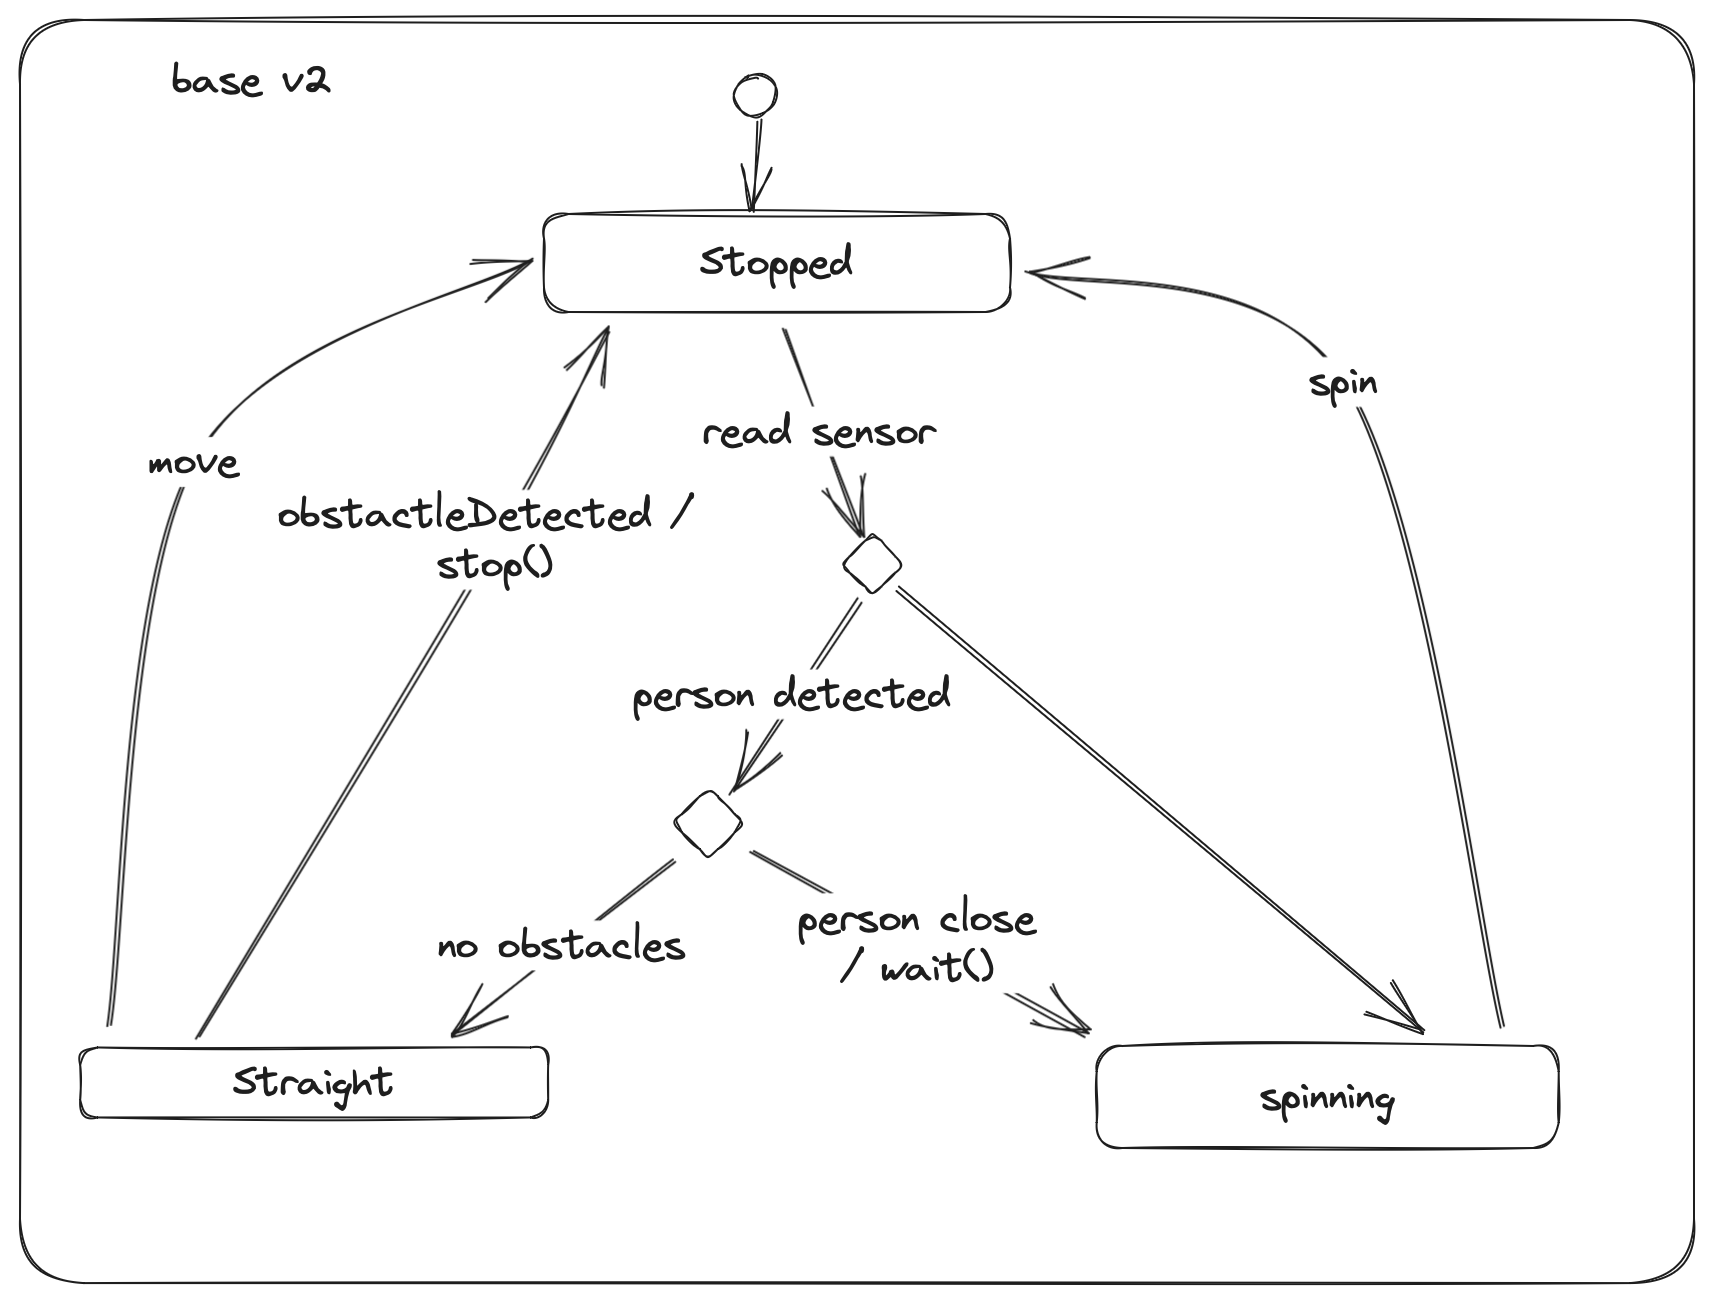
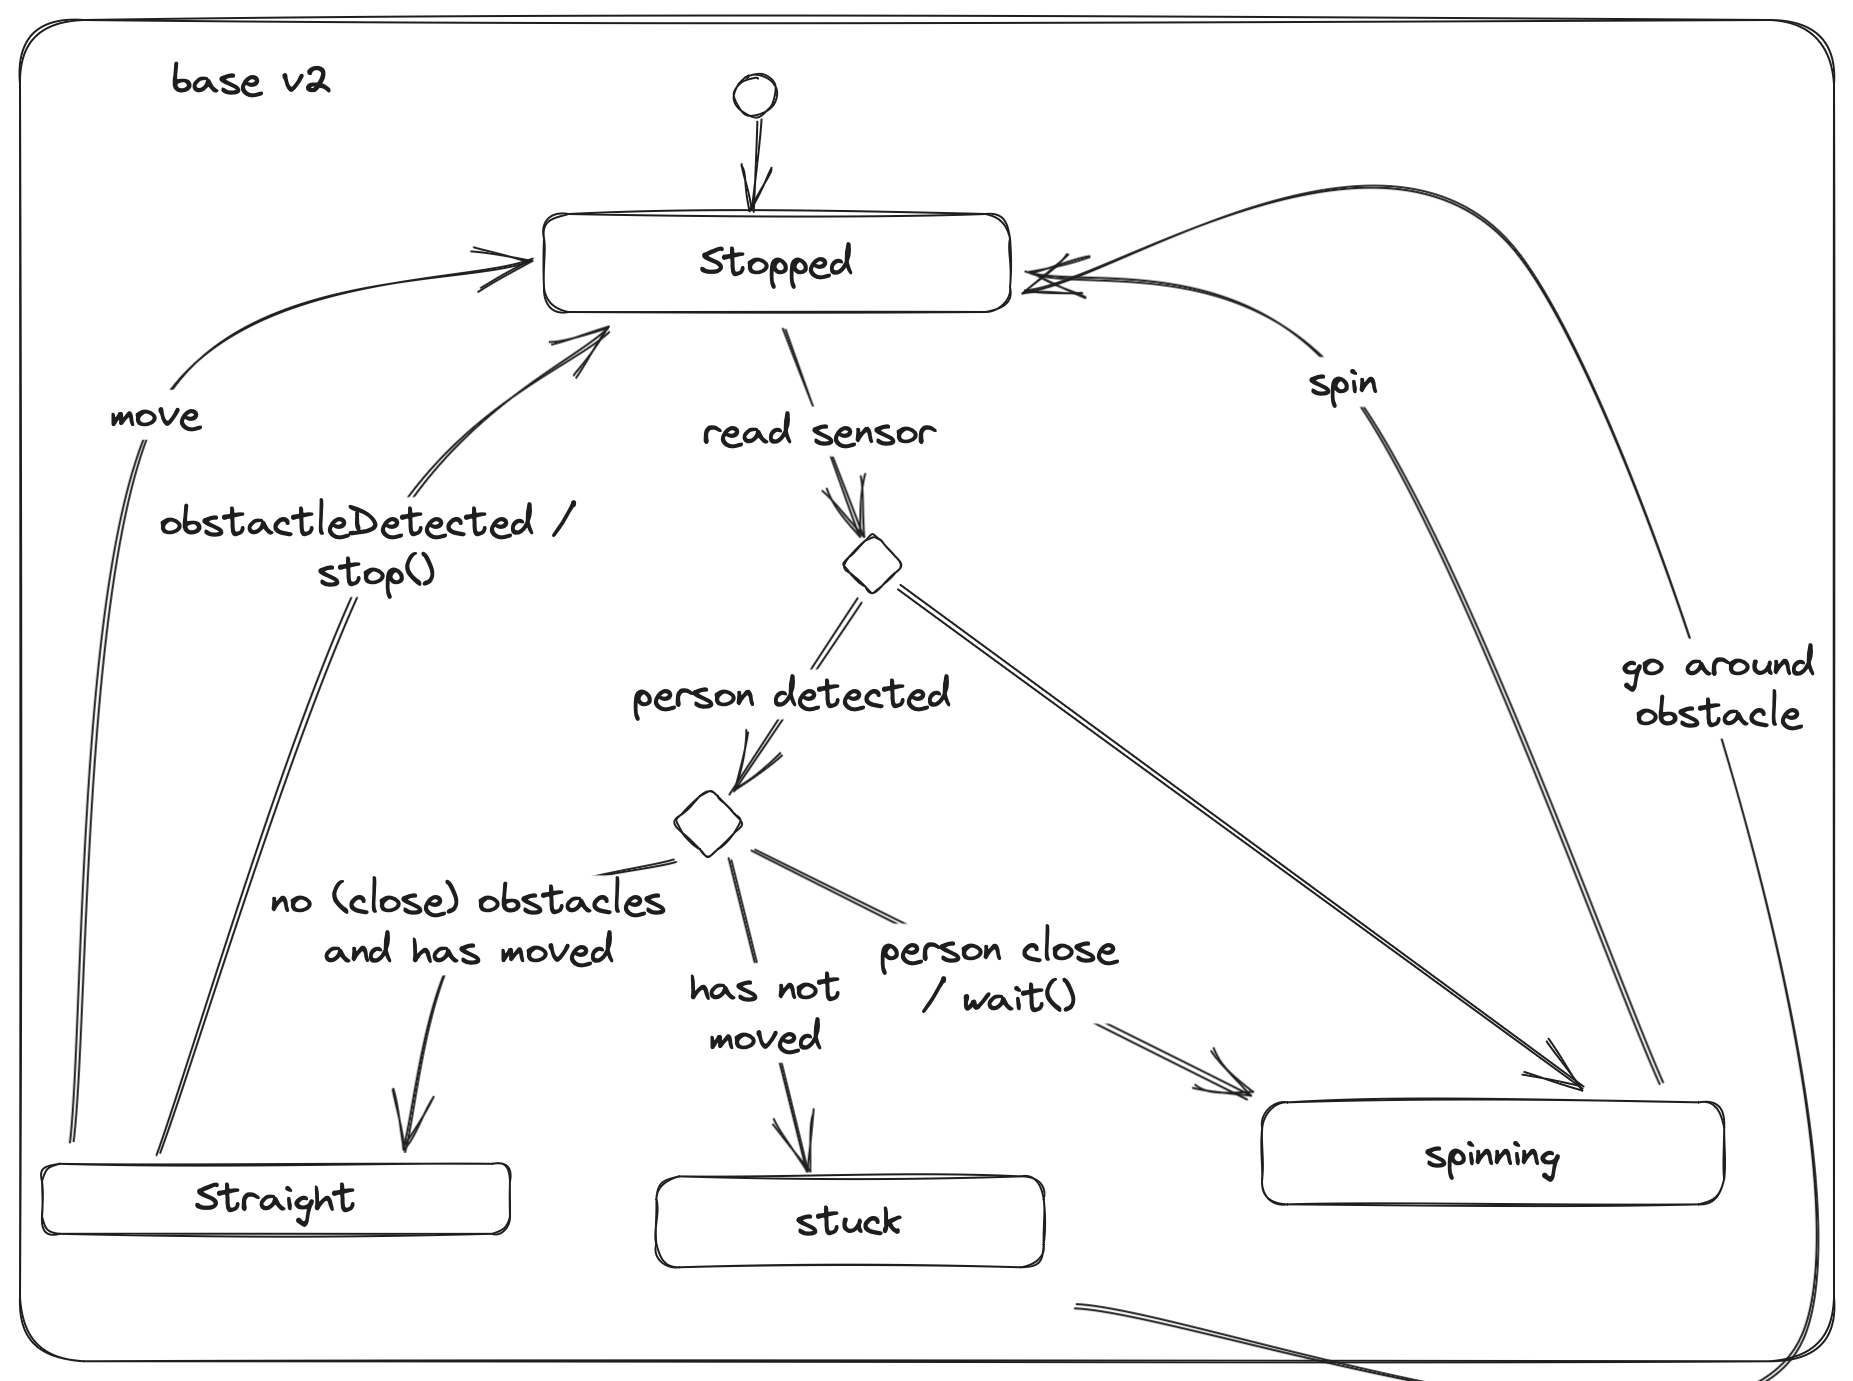
feat: add stuck detection and avoidance action, update diagram

diff --git a/tipsy.py b/tipsy.py
@@ -1,7 +1,8 @@
 import asyncio
 import os
-
 from typing import List
+from collections import Counter
+
 from viam.robot.client import RobotClient
 from viam.rpc.dial import Credentials, DialOptions
 from viam.components.sensor import Sensor
@@ -28,6 +29,7 @@ if isinstance(sensor_count, str):
     sensor_count = int(sensor_count)
 
 base_state = "stopped"
+previous_obstacle_readings: List[float] = []
 
 
 async def connect():
@@ -71,11 +73,22 @@ async def mingle(base: Base):
     base_state = "stopped"
 
 
+async def go_around(base: Base):
+    global base_state
+    print("might be stuck, attempting to move away from obstacle")
+    base_state = "stuck"
+    await base.move_straight(distance=-500, velocity=250)
+    await base.spin(45, 45)
+    await base.move_straight(distance=300, velocity=150)
+    await base.spin(-45, 45)
+    base_state = "stopped"
+
+
 async def person_detect(detector: VisionClient, sensors: List[Sensor], base: Base):
     while (True):
         # look for person
         found = False
-        global base_state
+        global base_state, previous_obstacle_readings
         print("will detect")
         detections = await detector.get_detections_from_camera(camera_name)
         for d in detections:
@@ -87,20 +100,26 @@ async def person_detect(detector: VisionClient, sensors: List[Sensor], base: Bas
         if (found):
             print("I see a person")
             # first manually call obstacle_detect - don't even start moving if someone is in the way
+            # also check to make sure Tipsy has been able to move
             distances = await gather_obstacle_readings(sensors)
-            if all(distance > 0.4 for distance in distances):
+            has_moved = Counter(distances) != Counter(
+                previous_obstacle_readings)
+            if all(distance > 0.4 for distance in distances) and has_moved:
+                previous_obstacle_readings = distances
                 print("will move straight")
                 base_state = "straight"
                 await base.move_straight(distance=800, velocity=250)
                 base_state = "stopped"
+            elif not has_moved:
+                await go_around(base)
             elif any(classification.class_name == "Person"
                      async for classification in detector.get_classifications_from_camera(camera_name, 1)
                      if classification.confidence > .7):
                 print("waiting for person to grab drink")
                 await asyncio.sleep(drink_grab_wait_time)
-                await mingle()
+                await mingle(base)
         else:
-            await mingle()
+            await mingle(base)
 
         await asyncio.sleep(pause_interval)
 

diff --git a/README.md b/README.md
@@ -32,7 +32,7 @@ This project assumes some knowledge of git, unix command line basics, [Homebrew]
 - [X] Avoid bumping into obstacles using ultrasonic sensors.  This includes both not starting movement that will create a collision, but also stopping movement when something unexpectedly enters Tipsy’s path
 - [X] Pauses near people to allow them to choose to grab drinks
 - [X] Not get “stuck” next to the same person, mingle! (but don’t over-engineer it, randomness is OK, no need to track individual people or where Tipsy has been)
-- [ ] Attempt to not get stuck and/or tipping backwards when impacting an undetected object
+- [X] Attempt to not get stuck and/or tipping backwards when impacting an undetected object
 - [X] Make the number of ultrasonic sensors configurable, e.g. allow one to have a config variable that says it should use X number of ultrasonic sensors
 
 ## Diagrams
@@ -49,4 +49,4 @@ The ["base" movement module](https://python.viam.dev/autoapi/viam/components/bas
 
 ![improved state machine diagram for base movement module](./docs/Tipsy Base v2 States.png)
 
-This updated machine adds to original design by explicitly transitioning to the `stopped` state when an obstacle is encountered during the `straight` movement action to protect against multiple calls to `stop()` before the person detection loop kicks in again. If an object is detected before attempting to move forward, Tipsy will check if it's a person and wait for them to grab a drink before spinning and running the detection loop again.
+This updated machine adds to original design by explicitly transitioning to the `stopped` state when an obstacle is encountered during the `straight` movement action to protect against multiple calls to `stop()` before the person detection loop kicks in again. If an object is detected before attempting to move forward, Tipsy will check if it's a person and wait for them to grab a drink before spinning and running the detection loop again. If Tipsy compares the previous obstacle distance data and finds it unchanged from the most recent reading, it will declare itself stuck and attempt to go around an unseen obstacle.
